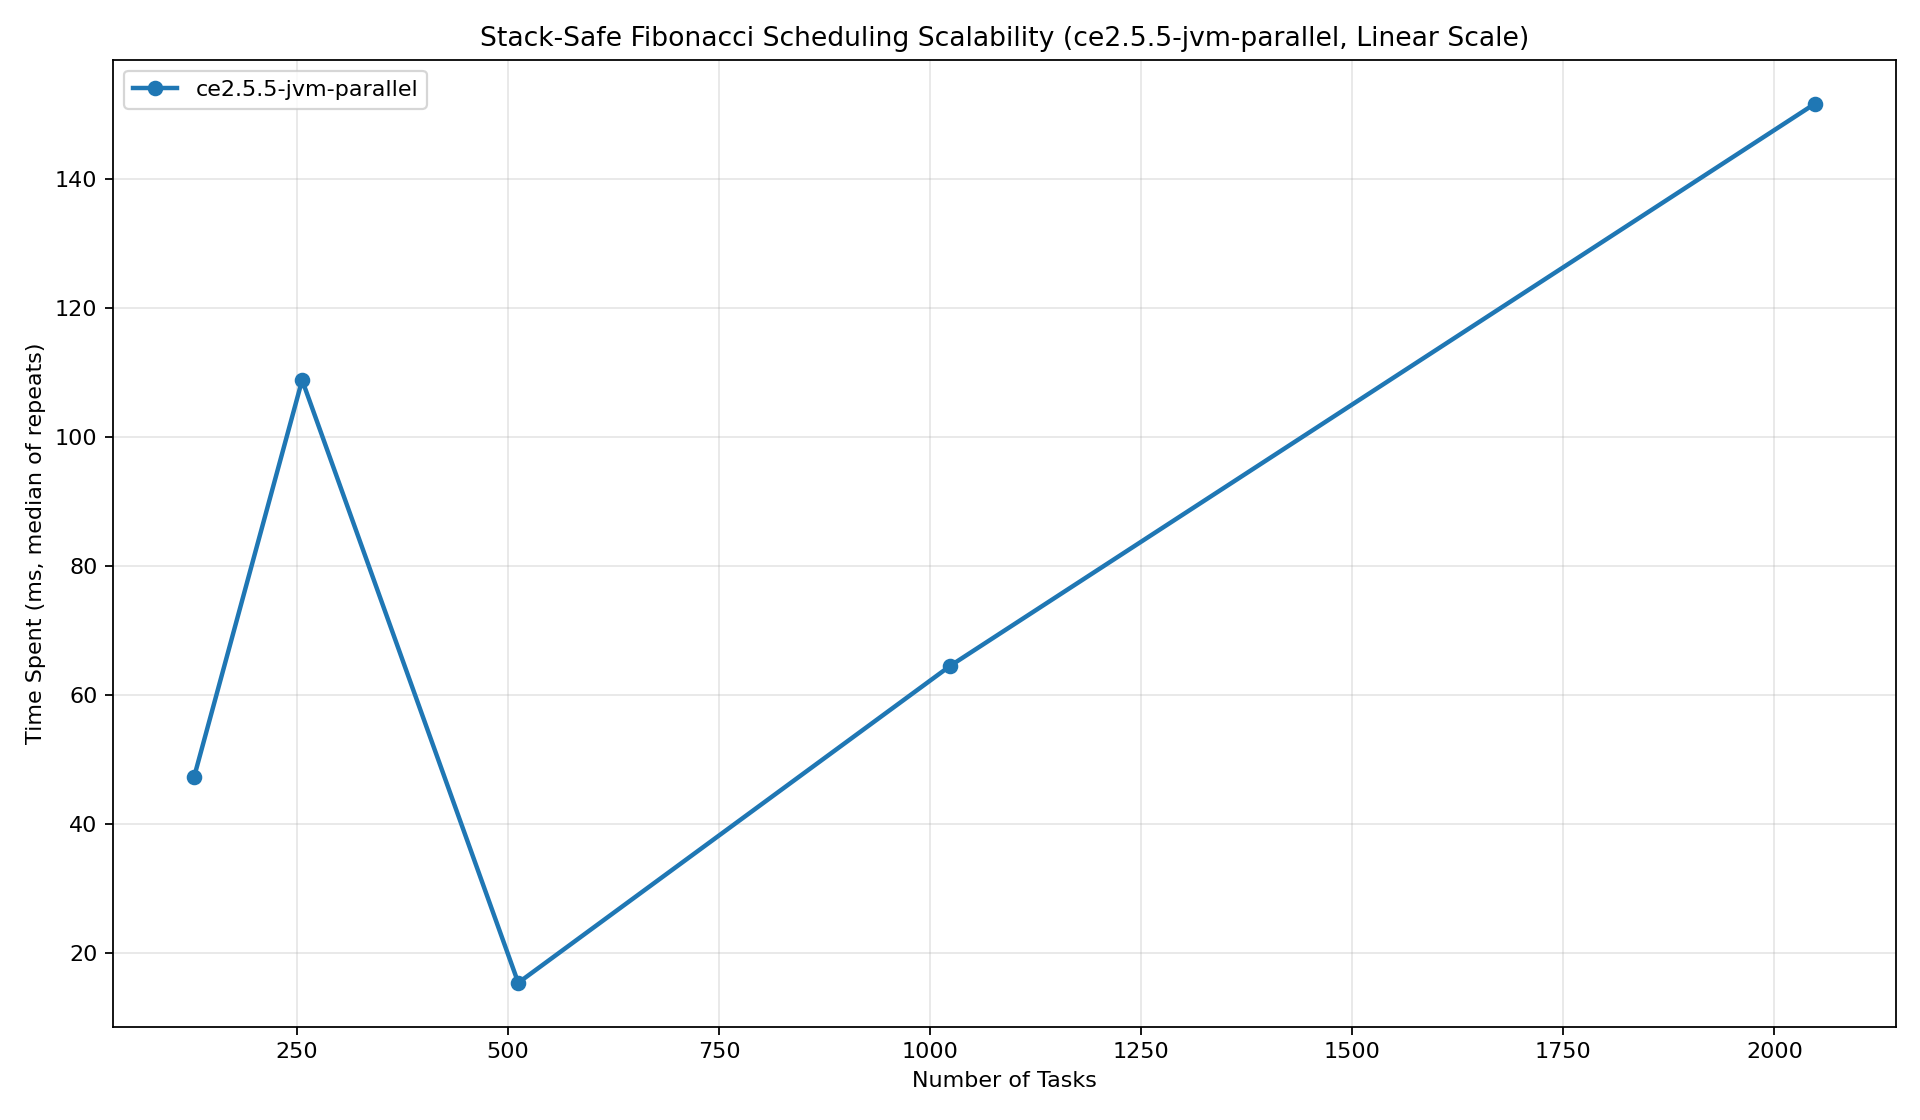
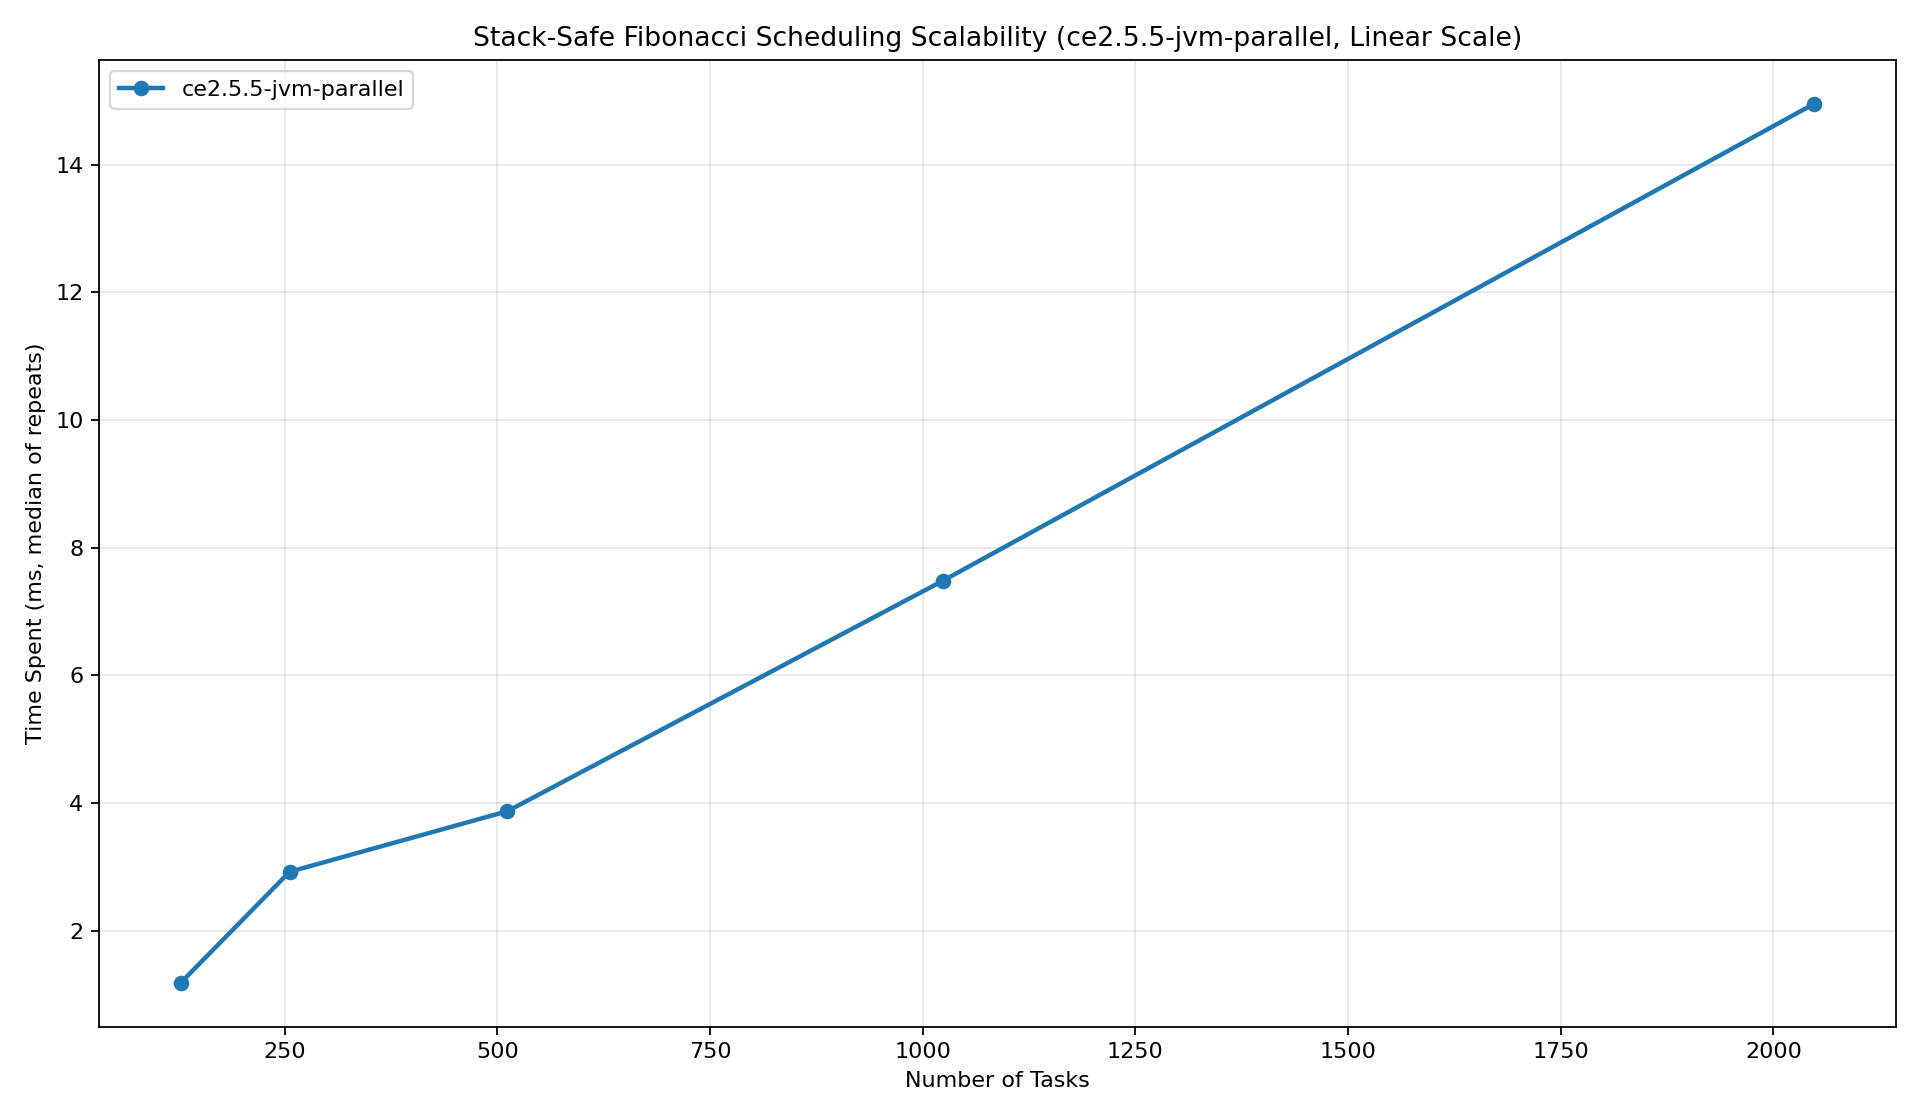
Use JMH for CE JVM stability and emit 7 single linear plus 2 combined charts

diff --git a/benchmarks/jmh_to_rows.py b/benchmarks/jmh_to_rows.py
@@ -1,0 +1,58 @@
+#!/usr/bin/env python3
+import argparse
+import csv
+
+HEADER = ["runtime", "tasks", "run", "elapsed_ms", "checksum", "fib_n", "yield_every"]
+
+
+def normalize_runtime(base_runtime: str, benchmark_name: str) -> str:
+    if benchmark_name.endswith(".parallel"):
+        return f"{base_runtime}-parallel"
+    if benchmark_name.endswith(".concurrent"):
+        return f"{base_runtime}-concurrent"
+    suffix = benchmark_name.rsplit(".", 1)[-1]
+    return f"{base_runtime}-{suffix}"
+
+
+def main() -> None:
+    parser = argparse.ArgumentParser(description="Convert JMH CSV results to benchmark row format")
+    parser.add_argument("--input", required=True, help="Input JMH CSV file")
+    parser.add_argument("--output", required=True, help="Output normalized CSV")
+    parser.add_argument("--runtime", required=True, help="Runtime base label (e.g. ce2.5.5-jvm)")
+    args = parser.parse_args()
+
+    with open(args.input, newline="", encoding="utf-8") as f:
+        rows = list(csv.DictReader(f))
+
+    out_rows = []
+    for row in rows:
+        benchmark = row.get("Benchmark", "")
+        score = row.get("Score")
+        tasks = row.get("Param: tasks")
+        fib_n = row.get("Param: fibN")
+        yield_every = row.get("Param: yieldEvery")
+
+        if not benchmark or not score or not tasks or not fib_n or not yield_every:
+            continue
+
+        runtime = normalize_runtime(args.runtime, benchmark)
+        out_rows.append(
+            {
+                "runtime": runtime,
+                "tasks": tasks,
+                "run": "1",
+                "elapsed_ms": score,
+                "checksum": "0",
+                "fib_n": fib_n,
+                "yield_every": yield_every,
+            }
+        )
+
+    with open(args.output, "w", newline="", encoding="utf-8") as f:
+        writer = csv.DictWriter(f, fieldnames=HEADER)
+        writer.writeheader()
+        writer.writerows(out_rows)
+
+
+if __name__ == "__main__":
+    main()

diff --git a/benchmarks/README.md b/benchmarks/README.md
@@ -29,13 +29,20 @@ Tune sweep parameters via environment variables:
 TASKS=1024,2048,4096,8192 FIB_N=4096 YIELD_EVERY=64 REPEATS=3 PATH="$PWD/.venv/bin:$PATH" ./run_all.sh
 ```
 
+`run_all.sh` defaults to JMH for CE JVM benchmarks (`CE_JVM_ENGINE=jmh`) to improve warmup and measurement stability.
+You can tune JMH iterations/forks:
+
+```bash
+WARMUP_ITERS=5 MEASURE_ITERS=8 FORKS=1 PATH="$PWD/.venv/bin:$PATH" ./run_all.sh
+```
+
 Outputs:
 - Raw per-runtime CSVs in `benchmarks/results/raw/`
 - Combined CSV: `benchmarks/results/raw/all.csv`
 - Combined charts:
   - `benchmarks/results/time-vs-tasks.png` (linear)
   - `benchmarks/results/time-vs-tasks-log.png` (log)
-- Per-runtime charts (linear only; expected 7 series = rust + 3 parallel + 3 concurrent):
+- Per-runtime charts (linear only; 7 series = rust + 3 parallel + 3 concurrent):
   - `benchmarks/results/time-vs-tasks-tokio-rust.png`
   - `benchmarks/results/time-vs-tasks-ce2.5.5-jvm-parallel.png`
   - `benchmarks/results/time-vs-tasks-ce2.5.5-jvm-concurrent.png`
